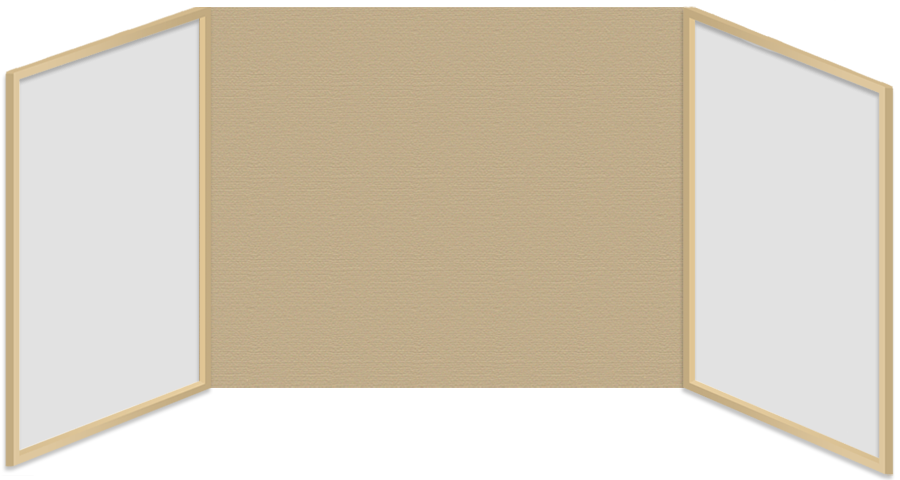
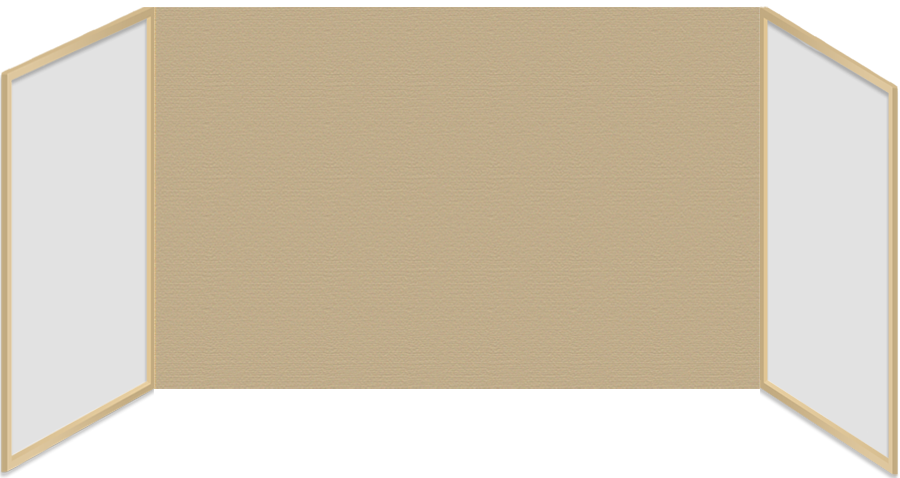
Поправлено фото стенда. Поправлен css.

Changed region(s): [[0.0, 0.0, 1.0, 1.0]]

diff --git a/trunk/html/index_files/style.css b/trunk/html/index_files/style.css
@@ -40,8 +40,8 @@ body
     text-align: justify;
     background: url("pic/stend.png") repeat scroll 0 0 #fff;
     width: 900px;
-    height: 480px;
-    padding: 20px 230px 100px 220px;
+    height: 478px;
+    padding: 20px 150px 100px 160px;
 }
 
 
